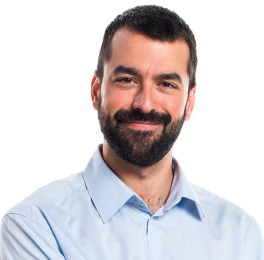
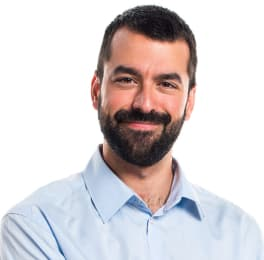
new ph

diff --git a/index.html b/index.html
@@ -77,7 +77,7 @@
           </li>
           <li>
             <img
-              src="./images/tom-ford.png"
+              src="./images/tom-ford.jpg"
               alt="Tom Ford avatar"
               width="264"
               height="260"
@@ -87,7 +87,7 @@
           </li>
           <li>
             <img
-              src="./images/camila-garcia.png"
+              src="./images/camila-garcia.jpg"
               alt="Camila Garcia avatar"
               width="264"
               height="260"
@@ -97,7 +97,7 @@
           </li>
           <li>
             <img
-              src="./images/daniel-wilson.png"
+              src="./images/daniel-wilson.jpg"
               alt="Daniel Wilson avatar"
               width="264"
               height="260"
